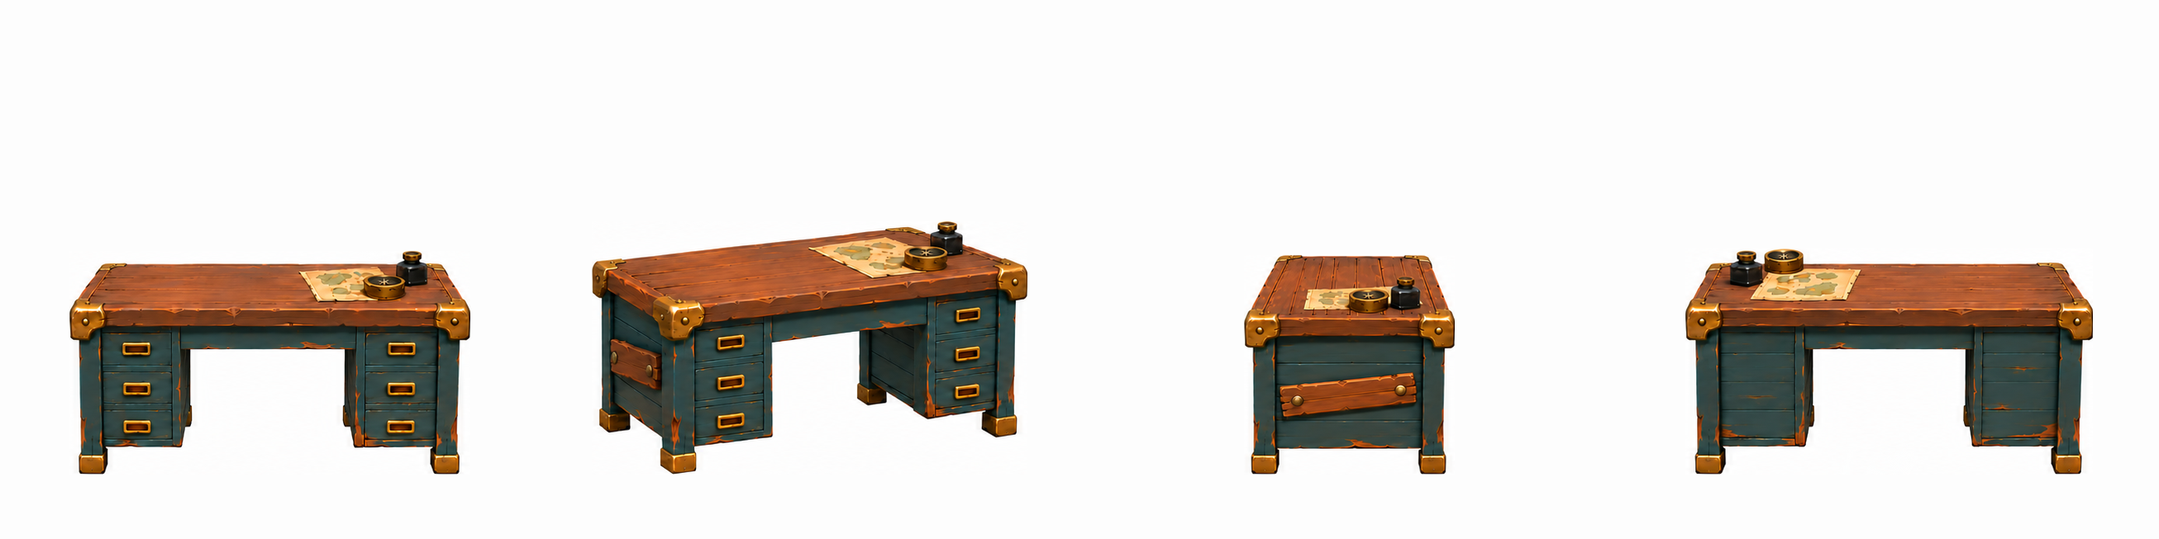
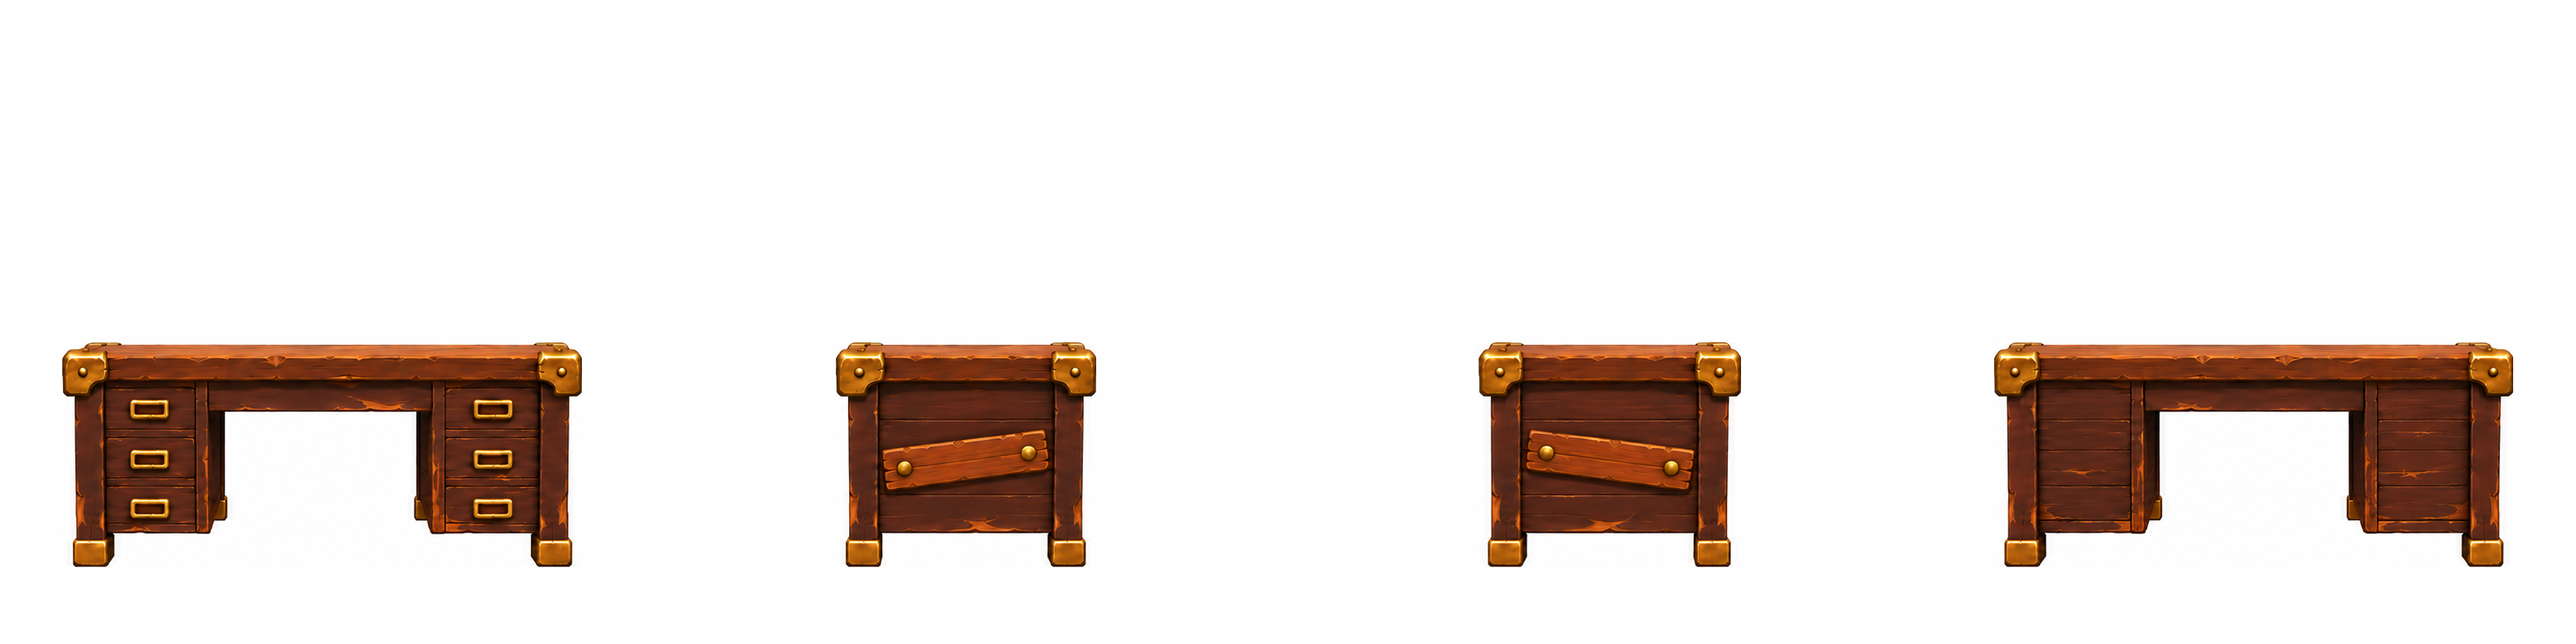
Fix captain desk as a bare orthographic prop sheet
Replace the dressed teal desk with dark warm wood, a bare tabletop, and front/left/right/back level elevations. Preserve brass fittings and wear, record dimensions and measured framing, and add the object-only prop contract to ART_SPEC.

Changed region(s): [[0.0, 0.3982, 0.4962, 0.8882], [0.7753, 0.4594, 0.9923, 0.8882], [0.5582, 0.4594, 0.6822, 0.8882]]

diff --git a/docs/ART_SPEC.md b/docs/ART_SPEC.md
@@ -204,6 +204,81 @@ A rigged **GLB**, Mixamo-compatible skeleton, under ~50k triangles.
 
 ---
 
+## 1A. Props — static object turnarounds
+
+This contract applies to props. It overrides the character section's view selection
+and background options; character pose and rigging rules do not apply. A prop goes
+from its sheet through cropped views to Tripo as one static object, without a rig.
+
+### What the art side delivers
+
+```
+art/props/<id>/
+├── sheet.png              one object in four views, in a single horizontal row
+└── asset.json             dimensions, provenance and pipeline status
+```
+
+Use the character `asset.json` files as the sidecar pattern. Record the prop's actual
+width, height and depth in metres in `dimensions_m`, together with the view order and
+the tool that produced the sheet. The engine uses these measurements to scale the
+model; the apparent size of the object on the sheet is not its game-world size.
+
+### Sheet rules
+
+- **Model the object only, never a dressed arrangement.** A desk is bare. Charts,
+  an inkwell and a compass each get their own sheet and asset, because the player can
+  pick them up and use them separately. Apply this to every future prop.
+- **Four views, left to right: front, left side, right side, back.** These are strict
+  orthographic elevations, with the camera level at the middle of the object, looking
+  straight at each face. No perspective, camera tilt or three-quarter angles. The back
+  must show the actual back, not another angle on the front.
+- **One camera scale for all four views of a prop.** Keep camera distance and
+  orthographic scale unchanged. Measure the object's height in every view: the pixel
+  heights must match, allowing at most 1 px of raster rounding. A different rendered
+  height becomes a different shape in reconstruction. Do not enlarge narrow side
+  views to fill their frames; their widths must follow the object's depth, while the
+  front and back widths follow its width.
+- **Use the frame for the individual asset.** A small inventory object can fill its
+  own sheet as much as a large piece of furniture does. There is no shared pixel scale
+  between different assets; there is a shared pixel scale between the four views of
+  the same asset. Scale in the engine from the sidecar's measurements.
+- **Whole object, same ground line and clear space.** Every view must be complete,
+  at the same vertical position, with its lowest point on a common baseline (within
+  1 px). Leave a clear vertical band of empty background between each view so the
+  cutter can separate them. The baseline is an alignment, not a drawn line.
+- **Plain flat white background.** No scenery, floor plane, cast shadows, borders,
+  labels, dimensions or callouts in the turnaround band. The background must stay
+  uniform, including the corners and the gaps between views.
+- **Same design and finish in all four views.** Keep construction, fittings, colour,
+  wear and lighting consistent. Generate one coherent sheet, not four unrelated
+  images. Use broad, readable forms and soft, even form shading; record any baked
+  lighting in the sidecar so it is not doubled in the engine.
+- **Show genuine openings.** Where an object has a through-hole, make the background
+  visible through it in at least two views. Do not change the required camera angles
+  to suggest a hole that the geometry does not have.
+
+### Extract and check the views
+
+Use `tools/crop_views.py`, with the prop names explicitly supplied:
+
+```
+python tools/crop_views.py art/props/<id>/sheet.png --names front left right back --out art/props/<id>/views --dry-run --preview check.png
+```
+
+The cutter aligns the bottoms and centres each view on one common square canvas.
+**It does not normalize object heights or correct perspective.** Check the source
+sheet's heights and projection before accepting it; a shared baseline alone does not
+prove that the four views have the same scale.
+
+For a sheet deliberately laid out in four equal-width cells, add `--count 4` to use
+those cells. This is necessary when narrow end views, such as rolled-chart ends, are
+less than a quarter of the width of the longest view: automatic detection treats
+those spans as stray marks. Check the preview for complete silhouettes and clear
+separation before writing the views. Keep one common square output size, with the
+same minimum 1024 × 1024 after the 2× upscale as the character inputs.
+
+---
+
 ## 2. Rooms
 
 ### What the art side delivers
